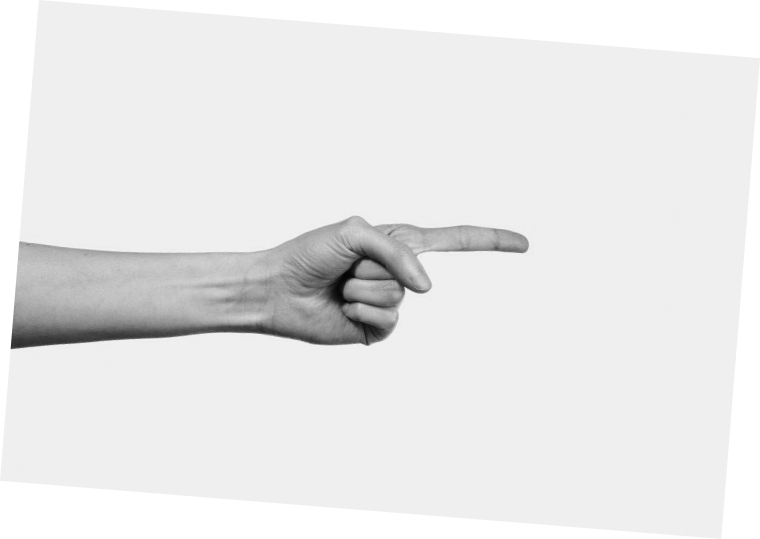
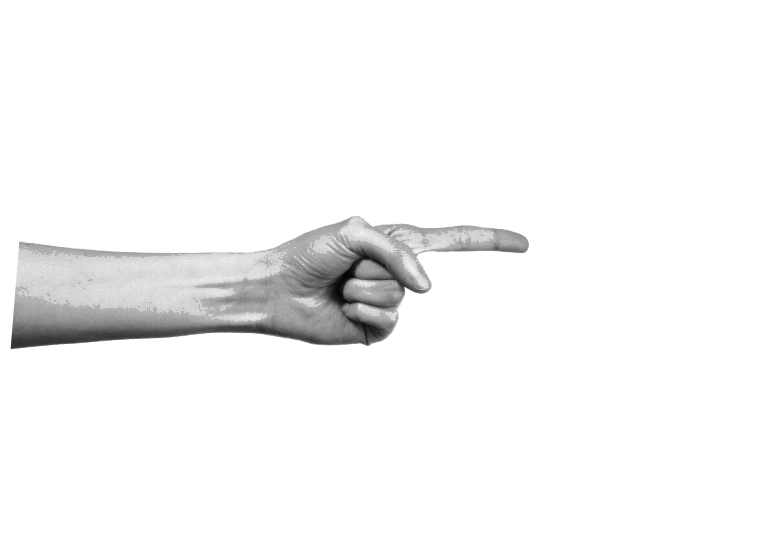
Правки по фидбеку: отзывы убраны, рука на белом, матрица в §07 и др.
- Убран блок «Отзывы» целиком
- Рука в «Суть формата» — фон осветлён до белого (как в Figma), не бежевый
- Убран сиреневый эллипс на первом экране
- §07 «Кому подойдёт»: еле заметный матричный фон (_ (8) 7)
- §02: заменён второй абзац на новый текст
- Моб.: инь-ян в §03 и колибри в §05 больше не наезжают на текст
  (заголовкам зарезервировано место справа); проверены §08, герой
- Моб.: кнопка в шапке компактнее/аккуратнее
- Кэш: ?v=9

diff --git a/css/styles.css b/css/styles.css
@@ -141,6 +141,19 @@ button:focus-visible {
 .section--green    { background: var(--green); }
 /* учёт липкой шапки при переходе к блоку регистрации */
 #registration { scroll-margin-top: 76px; }
+
+/* еле заметная «матрица» фоном в «Кому подойдёт» */
+.section--matrix { overflow: hidden; }
+.section--matrix::before {
+  content: "";
+  position: absolute;
+  inset: 0;
+  z-index: 0;
+  background: url("../assets/img/matrix.png") repeat;
+  background-size: 320px auto;
+  opacity: 0.07;
+  pointer-events: none;
+}
 /* На зелёном фоне светло-серый текст не проходит по контрасту — затемняем */
 .section--green .lead,
 .section--green .bullets li { color: var(--ink); }
@@ -688,23 +701,25 @@ button:focus-visible {
 }
 @media (max-width: 640px) {
   .deco, .yin-floating { display: none; }
-  /* колибри в «Как проходит встреча» — сверху, рядом с заголовком */
+  /* колибри в «Как проходит встреча» — справа от заголовка, без наезда на текст */
   .deco--bird {
     display: block;
-    top: 58px; right: 16px; bottom: auto; left: auto;
-    width: 74px;
+    top: 46px; right: 6px; bottom: auto; left: auto;
+    width: 64px;
     transform: rotate(8deg);
     opacity: 0.95;
   }
-  .topbar { padding: 8px 16px; }
-  .topbar__brand { font-size: 14px; letter-spacing: 0.08em; white-space: nowrap; }
+  .h2--bird { padding-right: 78px; }
+  .topbar { padding: 9px 16px; }
+  .topbar__brand { font-size: 13.5px; letter-spacing: 0.08em; white-space: nowrap; }
   .topbar .btn {
-    min-height: 40px;
-    padding: 0 18px;
+    min-height: 38px;
+    padding: 0 16px;
     display: inline-flex;
     align-items: center;
-    font-size: 14px;
-    font-weight: 600;
+    font-size: 13px;
+    font-weight: 700;
+    border-radius: 999px;
     white-space: nowrap;
   }
 }
@@ -764,13 +779,13 @@ button:focus-visible {
 .sense { padding-bottom: clamp(24px, 3vw, 48px); }
 .sense + .section { padding-top: clamp(24px, 3vw, 48px); }
 
-/* Моб.: инь-ян справа сверху секции (по аналогии с колибри), а не под заголовком */
+/* Моб.: инь-ян справа от заголовка (по аналогии с колибри), без наезда на текст */
 @media (max-width: 640px) {
-  .head-spin { display: block; }
+  .head-spin { display: block; position: relative; padding-right: 88px; min-height: 72px; }
   .head-spin .spin {
     position: absolute;
-    top: 2px; right: 6px;
-    width: 74px;
+    top: 0; right: 0;
+    width: 70px;
     margin: 0;
   }
 }

diff --git a/index.html b/index.html
@@ -20,7 +20,7 @@
   <link rel="preconnect" href="https://fonts.gstatic.com" crossorigin />
   <link rel="preload" as="image" href="assets/img/hero-bg.jpg" fetchpriority="high" />
   <link href="https://fonts.googleapis.com/css2?family=Didact+Gothic&family=Inter:wght@400;500;600;700&display=swap" rel="stylesheet" />
-  <link rel="stylesheet" href="css/styles.css?v=8" />
+  <link rel="stylesheet" href="css/styles.css?v=9" />
 </head>
 <body>
 
@@ -32,7 +32,6 @@
       <div class="hero__bg"></div>
       <div class="hero__tint"></div>
       <div class="hero__stage">
-        <span class="hero__blob"></span>
         <img class="hero__portrait2" src="assets/img/hero-portrait2.jpg" alt="" width="1000" height="853" />
         <img class="hero__eye" src="assets/img/hero-eye.png" alt="" width="488" height="281" />
       </div>
@@ -70,7 +69,7 @@
         </div>
         <div class="sense__right">
           <p class="lead">В личной консультации или ченнелинг-сессии можно разобрать большое количество вопросов. Но чаще всего они крутятся вокруг одной важной темы: внутреннего механизма, который требует изменений: убеждения, страхи, выбора или точка роста.</p>
-          <p class="lead">Когда эта самая важная тема становится видимой, человек начинает понимать, как она проявляется в разных сферах жизни. Появляется ясность, а главное — решение и конкретные действия, которые помогут изменить ситуацию. Именно поэтому часто достаточно одного заданного вопроса, который развернёт всю ситуацию целиком.</p>
+          <p class="lead">Потому что за разными вопросами часто скрывается один и тот же внутренний механизм. Когда он становится видимым, человек понимает, как именно этот механизм влияет на разные сферы его жизни, и получает ключ к решению сразу нескольких ситуаций. Поэтому одного точно сформулированного вопроса часто достаточно, чтобы увидеть общую картину и понять, какие действия помогут её изменить.</p>
         </div>
       </div>
     </section>
@@ -110,7 +109,7 @@
       <img class="deco deco--bird" src="assets/img/bird.png" alt="" width="302" height="273" aria-hidden="true" />
       <div class="container">
         <p class="eyebrow">Как проходит встреча</p>
-        <h2 class="h2 h2--oneline">Простой и бережный процесс встречи в Zoom</h2>
+        <h2 class="h2 h2--oneline h2--bird">Простой и бережный процесс встречи в Zoom</h2>
 
         <div class="cards cards--4">
           <article class="card card--step">
@@ -150,7 +149,7 @@
     </section>
 
     <!-- ============ 07 Кому подойдёт ============ -->
-    <section class="section section--green">
+    <section class="section section--green section--matrix">
       <div class="container">
         <p class="eyebrow">Кому подойдёт</p>
         <h2 class="h2 h2--oneline">Как понять, подходит ли вам такой формат</h2>
@@ -258,20 +257,6 @@
       </div>
     </section>
 
-    <!-- ============ Отзывы ============ -->
-    <section class="section section--lilac reviews">
-      <div class="container">
-        <p class="eyebrow">Отзывы</p>
-        <h2 class="h2">Что говорят участники</h2>
-        <div class="reviews__grid">
-          <img src="assets/img/review1.png" alt="Отзыв участницы ченнелинг-группы" width="436" height="544" loading="lazy" />
-          <img src="assets/img/review2.png" alt="Отзыв участницы ченнелинг-группы" width="448" height="560" loading="lazy" />
-          <img src="assets/img/review3.png" alt="Отзыв участницы ченнелинг-группы" width="448" height="560" loading="lazy" />
-          <img src="assets/img/review4.png" alt="Отзыв участницы ченнелинг-группы" width="448" height="560" loading="lazy" />
-        </div>
-      </div>
-    </section>
-
   </main>
 
   <!-- ============ Контакты / футер ============ -->
@@ -290,6 +275,6 @@
     </div>
   </footer>
 
-  <script src="js/main.js?v=8"></script>
+  <script src="js/main.js?v=9"></script>
 </body>
 </html>